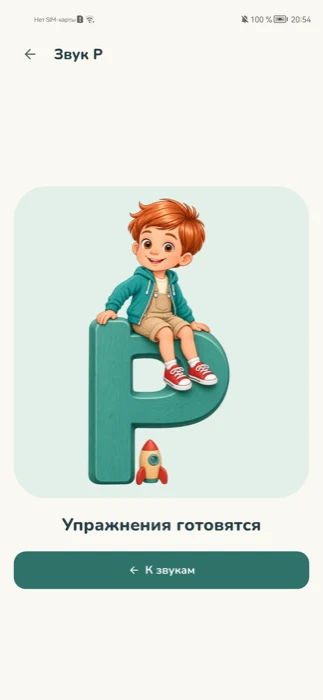
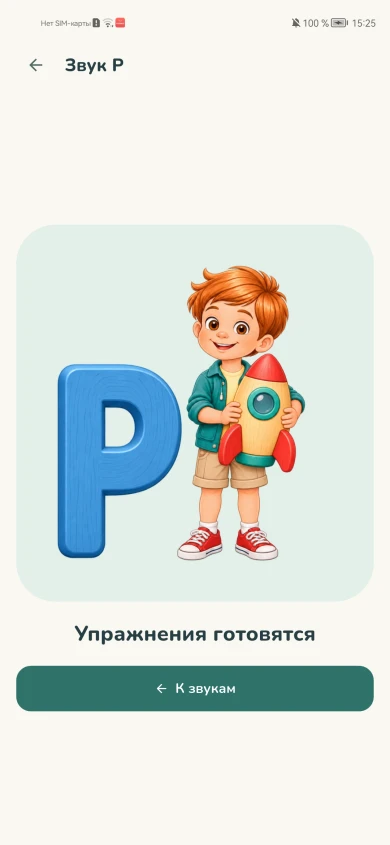
feat(site): sync redesigned artwork and app screens

diff --git a/public/index.html b/public/index.html
@@ -58,20 +58,32 @@
           <h2 id="directions-title">Четыре направления</h2>
           <div class="category-grid">
             <article class="category sonorants">
-              <svg viewBox="0 0 24 24" aria-hidden="true"><path d="M5 9v6m4-10v14m6-14v14m4-10v6"/></svg>
-              <h3>Сонорные</h3><p>Р, Рь, Л, Ль</p>
+              <div class="category-copy">
+                <svg viewBox="0 0 24 24" aria-hidden="true"><path d="M5 9v6m4-10v14m6-14v14m4-10v6"/></svg>
+                <h3>Сонорные</h3><p>Р, Рь, Л, Ль</p>
+              </div>
+              <img class="category-hero" src="./assets/directions/sonorants.webp" alt="" width="112" height="112" loading="lazy" decoding="async">
             </article>
             <article class="category sibilants">
-              <svg viewBox="0 0 24 24" aria-hidden="true"><path d="M3 7q3-4 7 0t11 0M3 12q3-4 7 0t11 0M3 17q3-4 7 0t11 0"/></svg>
-              <h3>Шипящие</h3><p>Ш, Ж, Ч, Щ</p>
+              <div class="category-copy">
+                <svg viewBox="0 0 24 24" aria-hidden="true"><path d="M3 7q3-4 7 0t11 0M3 12q3-4 7 0t11 0M3 17q3-4 7 0t11 0"/></svg>
+                <h3>Шипящие</h3><p>Ш, Ж, Ч, Щ</p>
+              </div>
+              <img class="category-hero" src="./assets/directions/sibilants.webp" alt="" width="112" height="112" loading="lazy" decoding="async">
             </article>
             <article class="category whistling">
-              <svg viewBox="0 0 24 24" aria-hidden="true"><path d="M3 8h11a3 3 0 1 0-3-3M3 12h15a3 3 0 1 1-3 3M3 16h6"/></svg>
-              <h3>Свистящие</h3><p>С, Сь, З, Зь, Ц</p>
+              <div class="category-copy">
+                <svg viewBox="0 0 24 24" aria-hidden="true"><path d="M3 8h11a3 3 0 1 0-3-3M3 12h15a3 3 0 1 1-3 3M3 16h6"/></svg>
+                <h3>Свистящие</h3><p>С, Сь, З, Зь, Ц</p>
+              </div>
+              <img class="category-hero" src="./assets/directions/whistling.webp" alt="" width="112" height="112" loading="lazy" decoding="async">
             </article>
             <article class="category articulation">
-              <svg viewBox="0 0 24 24" aria-hidden="true"><circle cx="12" cy="12" r="9"/><path d="M4 10c4 0 6-2 7-5 2 3 5 5 9 5M8 13h.01M16 13h.01M9 17q3 2 6 0"/></svg>
-              <h3>Артикуляция</h3><p>Упражнения для губ и языка</p>
+              <div class="category-copy">
+                <svg viewBox="0 0 24 24" aria-hidden="true"><circle cx="12" cy="12" r="9"/><path d="M4 10c4 0 6-2 7-5 2 3 5 5 9 5M8 13h.01M16 13h.01M9 17q3 2 6 0"/></svg>
+                <h3>Артикуляция</h3><p>Упражнения для губ и языка</p>
+              </div>
+              <img class="category-hero" src="./assets/directions/articulation.webp" alt="" width="112" height="112" loading="lazy" decoding="async">
             </article>
           </div>
         </section>
@@ -80,19 +92,27 @@
           <div class="screen-grid">
             <figure class="screen-card sonorants">
               <figcaption><h3>Вход</h3></figcaption>
-              <div class="phone"><img src="./assets/screens/login.webp" alt="Экран входа с приветствием Герки и тремя кнопками: ВКонтакте, Mail и Одноклассники" width="390" height="845" loading="lazy" decoding="async"></div>
+              <div class="phone"><img src="./assets/screens/login.webp" alt="Экран входа с приветствием Герки и тремя кнопками: ВКонтакте, Mail и Одноклассники" width="390" height="694" loading="lazy" decoding="async"></div>
             </figure>
             <figure class="screen-card whistling">
               <figcaption><h3>Занятия</h3></figcaption>
               <div class="phone"><img src="./assets/screens/home.webp" alt="Экран Занятия с четырьмя направлениями и кнопкой Для взрослых" width="390" height="845" loading="lazy" decoding="async"></div>
             </figure>
             <figure class="screen-card sibilants">
+              <figcaption><h3>Выбор звука</h3></figcaption>
+              <div class="phone"><img src="./assets/screens/selection.webp" alt="Выбор шипящих: Ш и Ж синие, Ч и Щ зелёные" width="390" height="845" loading="lazy" decoding="async"></div>
+            </figure>
+            <figure class="screen-card sonorants">
               <figcaption><h3>Звук Р</h3></figcaption>
-              <div class="phone"><img src="./assets/screens/sound.webp" alt="Экран звука Р: Герка Говорушкин с буквой Р и ракетой, надпись Упражнения готовятся" width="323" height="700" loading="lazy" decoding="async"></div>
+              <div class="phone"><img src="./assets/screens/sound.webp" alt="Звук Р: Герка с синей буквой Р и игрушечной ракетой, упражнения готовятся" width="390" height="845" loading="lazy" decoding="async"></div>
+            </figure>
+            <figure class="screen-card sonorants">
+              <figcaption><h3>Звук Рь</h3></figcaption>
+              <div class="phone"><img src="./assets/screens/soft-sound.webp" alt="Звук Рь: Герка с зелёной буквой Рь и репкой, упражнения готовятся" width="390" height="845" loading="lazy" decoding="async"></div>
             </figure>
             <figure class="screen-card articulation">
               <figcaption><h3>Артикуляция</h3></figcaption>
-              <div class="phone"><img src="./assets/screens/articulation.webp" alt="Раздел Артикуляция: Герка Говорушкин с зеркалом и надпись Упражнения готовятся" width="323" height="700" loading="lazy" decoding="async"></div>
+              <div class="phone"><img src="./assets/screens/articulation.webp" alt="Раздел Артикуляция: Герка Говорушкин с зеркалом и надпись Упражнения готовятся" width="390" height="845" loading="lazy" decoding="async"></div>
             </figure>
           </div>
         </section>

diff --git a/public/styles.css b/public/styles.css
@@ -73,9 +73,12 @@ nav a:hover, .site-footer a:hover, .text-link:hover { text-decoration: underline
 .note { font-size: .875rem; }
 .character { display: flex; flex-direction: column; align-items: center; justify-content: flex-end; align-self: stretch; background: var(--mint); border-radius: 26px; padding: 28px 20px 0; min-width: 0; }
 .character figcaption { color: var(--primary); text-align: center; font-size: clamp(1.375rem, 2.5vw, 1.75rem); font-weight: 900; line-height: 1.25; }
-.character img { width: min(100%, 370px); margin-top: 16px; }
-.category-grid { display: grid; grid-template-columns: repeat(4, minmax(0, 1fr)); gap: 16px; margin-top: 24px; }
-.category { display: grid; grid-template-rows: 24px auto 1fr; gap: 12px; padding: 24px 20px; border-radius: var(--card-radius); min-width: 0; }
+.character img { width: min(100%, 280px); margin-top: 16px; }
+.category-grid { display: grid; grid-template-columns: repeat(2, minmax(0, 1fr)); gap: 16px; margin-top: 24px; }
+.category { display: flex; flex-wrap: wrap; align-items: center; gap: 16px; padding: 24px 20px; border-radius: var(--card-radius); min-width: 0; }
+.category-copy { flex: 1 1 180px; min-width: 0; }
+.category-copy > * + * { margin-top: 8px; }
+.category .category-hero { width: 112px; height: 112px; object-fit: contain; flex: 0 0 112px; margin-left: auto; }
 .category svg { color: var(--primary); }
 .category p { font-size: .9375rem; }
 .sonorants { background: var(--mint); }
@@ -85,9 +88,9 @@ nav a:hover, .site-footer a:hover, .text-link:hover { text-decoration: underline
 .section { border-top: 1px solid var(--line); margin-top: 48px; padding-top: 48px; }
 .section-heading { display: grid; grid-template-columns: 1fr 1fr; gap: 32px; align-items: end; }
 .screens > h2 { margin-bottom: 24px; }
-.screen-grid { display: grid; grid-template-columns: repeat(4, minmax(0, 1fr)); gap: 20px; }
+.screen-grid { display: grid; grid-template-columns: repeat(3, minmax(0, 1fr)); gap: 20px; }
 .screen-card { display: flex; flex-direction: column; align-items: center; gap: 24px; min-width: 0; padding: 28px 20px; border-radius: var(--card-radius); }
-.screen-card figcaption { width: 100%; flex: 1; }
+.screen-card figcaption { width: 100%; }
 .phone { width: min(100%, 238px); overflow: hidden; border: 6px solid #263e43; border-radius: 28px; background: #faf8f2; }
 .phone img { width: 100%; }
 .about { display: grid; grid-template-columns: 1.15fr 1fr; gap: 40px; align-items: start; padding-bottom: 48px; }
@@ -114,8 +117,8 @@ nav a:hover, .site-footer a:hover, .text-link:hover { text-decoration: underline
   nav { gap: 8px 20px; }
   .hero { grid-template-columns: 1fr; gap: 28px; padding-block: 32px; }
   .character { padding-top: 24px; }
-  .character img { width: min(100%, 300px); }
-  .section-heading, .screen-grid, .about { grid-template-columns: 1fr; gap: 24px; }
+  .character img { width: min(100%, 240px); }
+  .category-grid, .section-heading, .screen-grid, .about { grid-template-columns: 1fr; gap: 24px; }
   .section-heading { align-items: start; }
   .section { padding-top: 32px; margin-top: 32px; }
   .screen-card { padding: 28px 24px; }
@@ -125,7 +128,6 @@ nav a:hover, .site-footer a:hover, .text-link:hover { text-decoration: underline
 }
 
 @media (max-width: 24rem) {
-  .category-grid { grid-template-columns: 1fr; }
   .category { padding: 24px; }
   .actions { width: 100%; flex-direction: column; }
   .project-note { padding: 24px; }

diff --git a/README.md b/README.md
@@ -14,7 +14,7 @@
 ## Устройство
 
 `public` — готовый статический сайт: HTML, CSS, локальный Nunito, иконка,
-WebP-иллюстрация и четыре экрана Android-приложения. Сборки, JavaScript,
+пять WebP-иллюстраций и шесть экранов Android-приложения. Сборки, JavaScript,
 сетевых шрифтов, аналитики, cookies, форм и зависимостей нет. Приватный код
 приложения, backend и секреты в этот публичный репозиторий не входят.
 
@@ -39,11 +39,16 @@ CSS-переменные владеют палитрой: молочный #FAF8
 Кликабельные элементы имеют высоту не меньше 48 CSS px. Картинки задают
 пропорции заранее; экраны ниже первого блока загружаются лениво.
 
-Брендовые изображения и снимки интерфейса перенесены из согласованного
-оформления приложения. Снимки входа и занятий сделаны на Honor 20, для
-занятий использована тестовая сессия. Экран звука Р и артикуляция сохраняют
-действующий интерфейс. Изображения уменьшены и сохранены в WebP для сайта;
-оригиналы остаются локально вне Git.
+В приветствии используется Герка в полный рост, в карточках направлений —
+отдельные сцены с паровозиком, листом, игрушечным самолётом и зеркалом.
+Иллюстрации соответствуют приложению; размер сцен в карточках — 112×112 CSS px.
+Галерея показывает вход, занятия, выбор шипящих, звуки Р и Рь, артикуляцию.
+Снимки работающего приложения сделаны на Honor 20, вход — на эмуляторе
+Android API 24. Пропорции кадров разных устройств сохраняются. В галерее
+видны синие твёрдые и зелёные мягкие звуки, отдельная сцена Рь с репкой.
+Упражнения ещё готовятся; раздел артикуляции открывается без покупки.
+Изображения уменьшены и сохранены в WebP для сайта, исходники и макеты
+генерации остаются локально вне Git.
 
 [Nunito / Google Fonts](https://github.com/google/fonts/tree/main/ofl/nunito)
 распространяется по SIL OFL 1.1: `public/assets/fonts/OFL.txt`.

diff --git a/docs/STATE.md b/docs/STATE.md
@@ -3,8 +3,11 @@
 18.11.2026. Сайт знакомит с «Говорушкиным», Android-приложением для домашней
 речевой практики детей 4–7 лет по рекомендациям логопеда.
 
-- Галерея показывает вход с тремя кнопками VK ID, занятия, звук Р и артикуляцию. Первые два
-  экрана сняты на Honor 20, для «Занятий» использована тестовая сессия.
+- Приветствие и четыре карточки направлений используют новые ростовые
+  иллюстрации Герки. Самолёт игрушечный, у направлений разные предметы.
+- Галерея показывает шесть реальных экранов: вход с тремя кнопками VK ID,
+  занятия, выбор шипящих, звуки Р и Рь, артикуляцию. Вход снят на эмуляторе
+  Android API 24, остальные кадры — на Honor 20. Пропорции кадров сохранены.
 - Страница сообщает о подготовке входа и упражнений. Публичного доступа к
   аккаунтам, записи голоса, установки из RuStore и оплаты на сайте нет.
 - Публичный репозиторий [govorushkin](https://github.com/4ICTOTA/govorushkin).
@@ -15,8 +18,10 @@
 
 - Chromium без окна и звука: 24 конфигурации. Размеры 1440×900, 1024×768,
   768×1024, 844×390, 390×844 и 320×568, обе темы, текст 100% и 200%.
-- Галерея содержит четыре снимка. Снимки и локальный Nunito загружаются.
+- Галерея содержит шесть снимков, карточки — четыре отдельные иллюстрации.
+  Снимки, иллюстрации и локальный Nunito загружаются.
   Проверены равные карточки, отсутствие горизонтальной прокрутки,
   переходы к разделам, клавиатурный фокус и страница лицензии. Ошибок
-  браузера или неудачных загрузок нет. Кадры и журнал в `output/vk-id-three/`.
+  браузера или неудачных загрузок нет. Центральных точек-разделителей нет.
+  Кадры и журнал — `output/redesign-*`.
 - `git diff --check` прошёл. В публикацию входит только `public/`.
